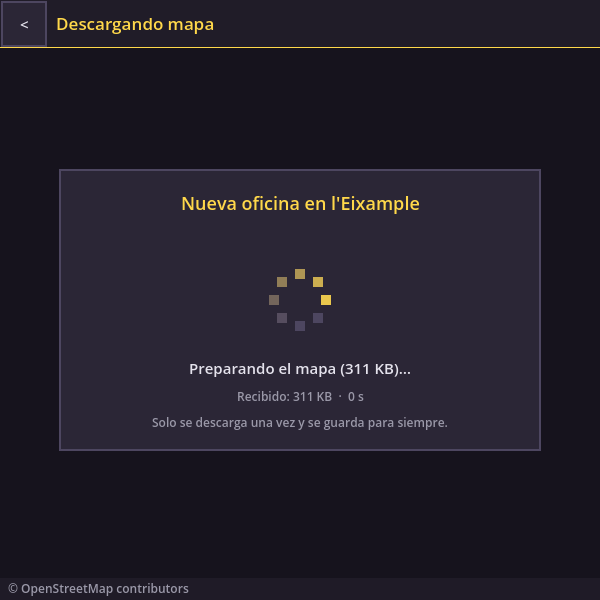
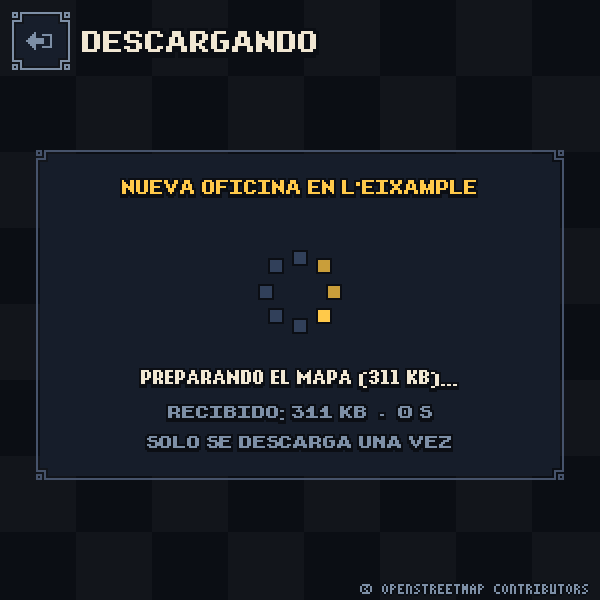
Record style A and refresh the screenshots on real data
CLAUDE.md: style A decided, the new drawing pipeline and its rules
(one palette, no blending, Iso camera, outlines, fonts and assets).
DESIGN.md: the visual style in Oscar's words. docs/screenshots: the
whole flow on real OpenStreetMap data (Barcelona near, close and far,
Tokyo, Warsaw, the busy server) and the mockup next to the game.

Claude-Session: https://claude.ai/code/session_01NbsGb8LmPHM5TSczA1ajDg

diff --git a/CLAUDE.md b/CLAUDE.md
@@ -13,6 +13,9 @@ made by the game, drawn as procedural isometric pixel art made with maths.
 - **Current state: map prototype.** Pick a city, see its real map, place offices, download and
   bake each office's area once from OpenStreetMap, view it in isometric pixel art. No gameplay
   yet (no money, buying or building).
+- **Visual style: A, "sibling of Tiny Battlegrounds" (decided by Oscar).** The spec is the
+  mockup in `docs/style_mockups/a_battlegrounds/` (`gen_battlegrounds.py` + its PNGs); the other
+  three mockups there were the rejected options. See "Style A" below.
 
 ## Design (decided so far)
 
@@ -54,19 +57,28 @@ calls (`press`/`click`/`drag`/`hover`/`wheel`/`back`) in canvas coordinates.
   click; Esc = back, quits from the city list) and the download jobs: `Overpass` fetch -> parse
   and bake on a `Thread` -> save with `Store` -> open the next screen. Prints a `CITY ...` /
   `OFFICE ...` line with sizes and timings after each job.
-- `screen.gd` (`Screen`) - base for full-window screens. `ui.gd` (`Ui`) - shared drawing: header
-  with the back button (`BACK_RECT`), buttons, outlined labels, the footer with the OSM credit
-  (on every screen) and the red DATOS DE PRUEBA tag in fixture mode. Hit targets >= `MIN_HIT`.
+- `screen.gd` (`Screen`) - base for full-window screens. `ui.gd` (`Ui`) - shared drawing, a mirror
+  of Battlegrounds' `UiKit`: slate checker `backdrop`, Kenney nine-slice `plate`s (panel 12
+  studded, 13 slot, 15 button; a flat `chip` under 48 px), `button` (steel, cyan rim when hot,
+  gold `accent`), cyan `arrow` buttons (< > + - as pixel glyphs), the top-left `back_button` and
+  `header` (title beside it; `BAR_H` is also the window-drag zone), `text` (TinyFont capitals
+  with an ink rim and drop shadow; `caps()` swaps letters the fonts lack for their base letter),
+  `micro` (the mockup's 3x5 font), `bar`, `coin`, and the `footer` with the OSM credit (on every
+  screen) and the red DATOS DE PRUEBA tag in fixture mode. Hit targets >= `MIN_HIT`.
 - `city_pick.gd` (`CityPick`) - the shipped city list, 12 a page with < > arrows.
 - `city_map.gd` (`CityMap`) + `city_paint.gd` (`CityPaint`) - the city map, north up, painted once
-  into a SubViewport at 12 m/px and shown at x1/x2/x4; labels, office markers and the cursor are
-  drawn live on top. The cursor carries the `Rules.MAX_RADIUS` circle, red when closer than
-  `Rules.MIN_SEPARATION` to any office; click = pending spot + confirm box. Clicking an office
-  marker opens it. `center_on`/`hover_latlon`/`pick_latlon`/`confirm` drive it from tools.
+  into a SubViewport at 12 m/px and shown at x1/x2/x4, in a slate night palette (land SL1, sea
+  CYAN_DD, parks GRASS_DD, roads slate -> gold by class); labels, office markers (gold house +
+  dashed pixel ring) and the cursor are drawn live on top. The cursor carries the
+  `Rules.MAX_RADIUS` circle, red when closer than `Rules.MIN_SEPARATION` to any office; click =
+  pending spot + confirm box. Clicking an office marker opens it.
+  `center_on`/`hover_latlon`/`pick_latlon`/`confirm` drive it from tools.
 - `loading.gd` (`Loading`) - status, bytes received, spinner; on failure a message with
   Reintentar / Volver.
-- `office_view.gd` (`OfficeView`) - one saved office: `BlockView` drawn once into a SubViewport
-  the size of the whole disc, shown at x1/x2; street names drawn on top along the streets.
+- `office_view.gd` (`OfficeView`) - one saved office: shows `BlockView.texture` (drawn once, a
+  frame or two after opening; `is_drawn()`) at x1/x2/x3 (x2 = the mockup), with the mockup's HUD:
+  back + neighbourhood, plots owned, level bar with the active/max radius, "+$" pops over owned
+  roofs, street names sheared along their streets in the pixel font.
 
 **Data and rules**
 - `city_db.gd` (`CityDb`) - the shipped cities (id, Spanish name, country, map-box centre).
@@ -95,7 +107,7 @@ calls (`press`/`click`/`drag`/`hover`/`wheel`/`back`) in canvas coordinates.
 - `city_baker.gd` (`CityBaker`) - city query (8 km box: motorway..secondary, coastline, water,
   rivers, parks, place=borough/suburb/quarter/neighbourhood nodes) and its bake (format
   `tiny-realtor-city` v1: roads, sea, land, water, rivers, parks, places; names picked so the
-  Latin font can draw them: `name`, else `name:es`/`name:en`/romanised).
+  Latin font can draw them: `name`, else `name:en`/`name:ja-Latn`/romanised, else `name:es`).
 - `block_baker.gd` (`BlockBaker`) - the office query and bake (see the format below). **No
   buildings are downloaded**: the streets (with names/refs), railways, land-use zones, parks and
   water within `MAX_RADIUS`. Steps: project, turn so the dominant street direction (length-
@@ -109,15 +121,59 @@ calls (`press`/`click`/`drag`/`hover`/`wheel`/`back`) in canvas coordinates.
   frontage ranges by zone), each side owning the wedge between its corner bisectors, cut across
   every frontage width; convex corners merge into one corner plot; the middle is the courtyard.
   Sides lying on the disc edge face no street and get no plots.
-- `block_view.gd` (`BlockView`) - draws a v2 area once: earth disc, water, parks, roads (curbs
-  then asphalt, lane dashes away from junctions), railways, blocks, courtyards, plots (bare lots
-  by zone, some with a for-sale sign), shadows, the dark veil + gold ring outside
-  `active_radius`, then built plots as procedural buildings far-to-near (hazed outside the active
-  radius) and the office (white walls, gold roof, flag and pin; a kiosk when no plot is near).
-  `street_labels()` gives label spots for the overlay. Projection: `u = x, v = -y`, screen
-  `((u - v) * SCALE, (u + v) * SCALE / 2 - z * RISE)`.
+- `block_view.gd` (`BlockView`) - draws a v2 area once, style A, into `texture` (signal
+  `drawn`): `set_block` builds the ops (AreaBuilder) and sorts them (DepthSort); `_ready` runs
+  three GPU passes in throwaway SubViewports, each read back once: the ground as palette indices
+  + the shadow mask, then the world (ground through WorldShader's ground shader, the slab, the
+  ring, every object in painter's order with its ink outline, price tags). `street_labels()`
+  gives label spots for the overlay; `pops` the roofs income pops rise from.
+- `area_builder.gd` (`AreaBuilder`) - a v2 area -> ops: the ground (pavement, asphalt, pedestrian
+  paving, rails, parks, water, courtyard gardens, lots with fence posts and tufts, gardens with
+  hedges and pools, lane dashes, zebra crossings at junctions), shadows, the earth slab, the
+  dashed gold ring, and the objects: buildings by tier with the mockup's recipes (0 lot + "$"
+  sign, 1 house, 2 estate with pool, 3 apartments, 4 tower, 5 skyscraper with gold crown;
+  industrial = shed), the office (REALTOR sign, teal roof, cyan flag), owned = teal roof + cyan
+  flag, trees (courtyards, parks, street trees), lamps and people inside the active radius,
+  cars in the lanes, price tags on the nearest signed lots. All placement by stable hashes.
+- `painter.gd` (`Painter`) - records one object's ops (POLY, WALL, RECT, TEX) with the mockup's
+  primitives: `wall` (wall_pixels), `prism`, `face3d`, `pitched`, Bresenham `line`.
+- `world_shader.gd` (`WorldShader`) - the two shaders, generated with the palette's names: the
+  facade shader (walls per pixel: apartment, office, house, tower, sky, plain, skeleton,
+  scaffold, slab, cab, shed, ink; sprites from the atlas) and the ground shader.
+- `depth_sort.gd` (`DepthSort`) - painter's order: separating axis between footprint hulls for
+  every pair whose screen boxes overlap, then a topological sort (fixes long thin plots).
+- `pal.gd` (`Pal`), `iso.gd` (`Iso`), `sprites.gd` (`Sprites`) - see "Style A".
 - `docs/prototype/` - the Python prototype (Pillow + Shapely); its `block_raw_overpass.json` is
   the hand-made Eixample sample the fixture uses. Not shipped.
+
+## Style A (the look, and the rules that keep it)
+
+The office view is the mockup's renderer ported to the GPU, pixel for pixel in spirit:
+- **One palette** (`Pal`, 74 colours from `gen_battlegrounds.py`: Battlegrounds' slate/ink/gold/
+  cyan/mint/red plus the city ramps CRM OCH SAL STN TER TIL TEAL GLS CON). Every pixel of the
+  drawing is a palette colour: nothing blends (`render_mode blend_disabled`), shadows, the dim
+  outside the active radius and the faded "unpainted miniature" buildings are remap tables over
+  the palette (`Pal.shadow/dim/fade`, rows of `Pal.lut()`). `render_office.gd` fails on any
+  off-palette pixel. Sprites go through an index atlas read with `texelFetch`, never a canvas
+  item's own TEXTURE (compat converts it from sRGB and the colours drift).
+- **Camera** (`Iso`): `S` = 1.19 low-res px per metre, `u = x, v = -y`, screen
+  `((u - v) S, (u + v) S / 2 - z)` with z already in pixels (a storey is 3-5 px by tier); light
+  from the upper left (`Iso.LIGHT`, `Iso.shade`). The drawing is low-res; the view shows it at x2
+  (one art pixel = 2x2 screen pixels) with nearest filtering. Only integer zooms.
+- **Outlines**: every object (not lamps/people) gets a 1 px INK outline: its ops replayed shifted
+  left/right/up/down in ink before the colour pass.
+- **Walls** are quads whose vertex colour and UV carry the facade parameters (style, light k,
+  ramp, variant, height, width, seed; see the comment in `world_shader.gd`); the shader finds
+  each pixel's column and row above the base exactly like `wall_pixels` and picks the colour.
+- **Determinism**: placement and details hash with `Iso.h01` (String.hash, mixed), never `randf`.
+- **UI**: TinyFont 12 bold / narrow bold / 10 bold (`fonts/`, see `TinyFont-README.md`; imported
+  with antialiasing, hinting and subpixel positioning off) only at whole multiples of the design
+  size (24, 36; 20 for the 10 px font); the mockup's micro font for the credit and tags; Kenney
+  CC0 nine-slices (`assets/ui/`, `LICENSE_kenney.txt`) at 1:1 with 16 px slices, as UiKit.
+  Colours: VOID/SL0 backdrop checker (76 px), CREAM text, MUTED secondary, GOLD money/level/
+  accent buttons, CYAN arrows and hover, BLOOD/RED warnings, MINT reserved for income.
+- Placeholders until there is an economy: price tags = area x `AreaBuilder.PRICE_M2`, "+$" pops
+  without amounts, only the office plot is owned (data's `owned` is honoured).
 
 ## Office area format (`tiny-realestate-block` v2)
 
@@ -161,13 +217,17 @@ godot --headless --path . --script res://tools/net_check.gd     # one small real
 `screenshot.sh [outdir] [args]` runs `tools/cloud/capture.gd` under
 `xvfb-run -a -s "-screen 0 1280x1024x24" godot --path . --rendering-driver opengl3 --audio-driver Dummy`
 (mesa llvmpipe), because `--headless` renders nothing. The capture drives the real flow: city
-list, Barcelona map, cursor, confirm, loading, office (near and far), the red too-close cursor,
-then offices in Tokyo and Warsaw. Extra args: `--fixture`, `--fresh` (also re-download city maps;
+list, Barcelona map, cursor, confirm, loading, office (x2, x3 close-up, x1 far), the red
+too-close cursor, offices in Tokyo and Warsaw, then the busy-server screen. Extra args: `--fixture`, `--fresh` (also re-download city maps;
 offices are always wiped first), `--spot=city:lat:lon` (repeatable, replaces the places),
 `--raw-cache=DIR`. Under Xvfb a `WARNING: Could not set V-Sync mode` line is normal.
 
 Other tools: `bake_check.gd -- --raw=/abs/answer.json --lat= --lon= [--city]` bakes a saved raw
-Overpass answer; `seed_cache.gd` files a raw answer under the name `--raw-cache` looks for.
+Overpass answer; `seed_cache.gd` files a raw answer under the name `--raw-cache` looks for;
+`tools/cloud/render_office.gd -- --out=/abs/dir [--file=/abs/office.json]` (under xvfb-run like
+the capture) renders saved offices alone (whole drawing + x2 crop) in seconds and fails on any
+pixel off the palette. `docs/screenshots/style_a_side_by_side.png` is the mockup next to the
+real Barcelona office.
 
 **Network in the cloud container**: Overpass hosts must be on the environment's allowlist. In
 this container overpass-api.de reset every TLS handshake, overpass.kumi.systems timed out and

diff --git a/README.md b/README.md
@@ -2,4 +2,4 @@
 
 *(Nombre provisional.)* Un juego idle de inmobiliaria que vive en una ventanita de 600x600 siempre encima del escritorio: abres oficinas inmobiliarias en barrios reales del mundo, compras solares en sus calles, cobras alquileres y construyes hasta tener rascacielos. Los mapas son datos reales de OpenStreetMap (© OpenStreetMap contributors) dibujados en pixel art isométrico: de ellos salen las calles con sus nombres, los parques y el agua; las manzanas y parcelas las calcula el juego. Ahora mismo es el prototipo del mapa: eliges ciudad, ves su plano, pones una oficina y se descarga (una sola vez) su zona. El diseño está en [`docs/DESIGN.md`](docs/DESIGN.md).
 
-**Cómo abrirlo:** instala [Godot 4.7.1](https://godotengine.org/download/archive/4.7.1-stable/) (versión estándar, no .NET), abre Godot, pulsa *Importar*, elige el fichero `project.godot` de esta carpeta y dale a *Ejecutar* (F5). En la ventana: arrastra la barra de arriba para mover la ventana; en los mapas, arrastra para moverte, rueda o botones - + para el zoom; clic para elegir sitio y "Abrir oficina aquí" para confirmar; Esc para volver atrás (y cerrar desde la lista de ciudades). Para probar sin internet: `godot --path . -- --fixture` (datos inventados, salen marcados como DATOS DE PRUEBA). Para comprobar que las descargas reales funcionan en tu PC: `godot --headless --path . --script res://tools/net_check.gd`.
+**Cómo abrirlo:** instala [Godot 4.7.1](https://godotengine.org/download/archive/4.7.1-stable/) (versión estándar, no .NET), abre Godot, pulsa *Importar*, elige el fichero `project.godot` de esta carpeta y dale a *Ejecutar* (F5). En la ventana: arrastra la barra de arriba para mover la ventana; en los mapas, arrastra para moverte, rueda o botones - + para el zoom; clic para elegir sitio y "Abrir oficina" para confirmar; Esc para volver atrás (y cerrar desde la lista de ciudades). Para probar sin internet: `godot --path . -- --fixture` (datos inventados, salen marcados como DATOS DE PRUEBA). Para comprobar que las descargas reales funcionan en tu PC: `godot --headless --path . --script res://tools/net_check.gd`.

diff --git a/docs/DESIGN.md b/docs/DESIGN.md
@@ -28,6 +28,12 @@ Abres oficinas inmobiliarias en barrios reales del mundo, compras solares en las
 - La zona alrededor de la oficina en isométrico pixel art: calles, edificios, parques.
 - Aquí se compra, se construye y se mejora.
 
+### Estilo visual (decidido: A, "hermano de Tiny Battlegrounds")
+- El de la maqueta `docs/style_mockups/a_battlegrounds/`: fondo de pizarra oscura, paneles con remaches, letra pixel gruesa con borde oscuro, acentos cian, oro y menta, como Tiny Battlegrounds.
+- El barrio es una maqueta flotante: dentro del radio de la oficina todo va a todo color; fuera, la ciudad es gris lila, como miniaturas sin pintar que vas conquistando, con un anillo dorado discontinuo en el borde.
+- Lo tuyo lleva tejado turquesa y bandera cian; los solares en venta, cartel rojo con "$" y etiqueta de precio; el rascacielos, corona dorada; tu oficina, el cartel REALTOR.
+- Todo es pixel art de verdad: una sola paleta, sin mezclas de color, cada píxel del dibujo se ve como un bloque de 2x2.
+
 ## 3. Cómo se consiguen los mapas
 
 - Fuente: **OpenStreetMap**, pedido directamente a la **API pública de Overpass**. Sin servidor propio: **0 € al mes**.
